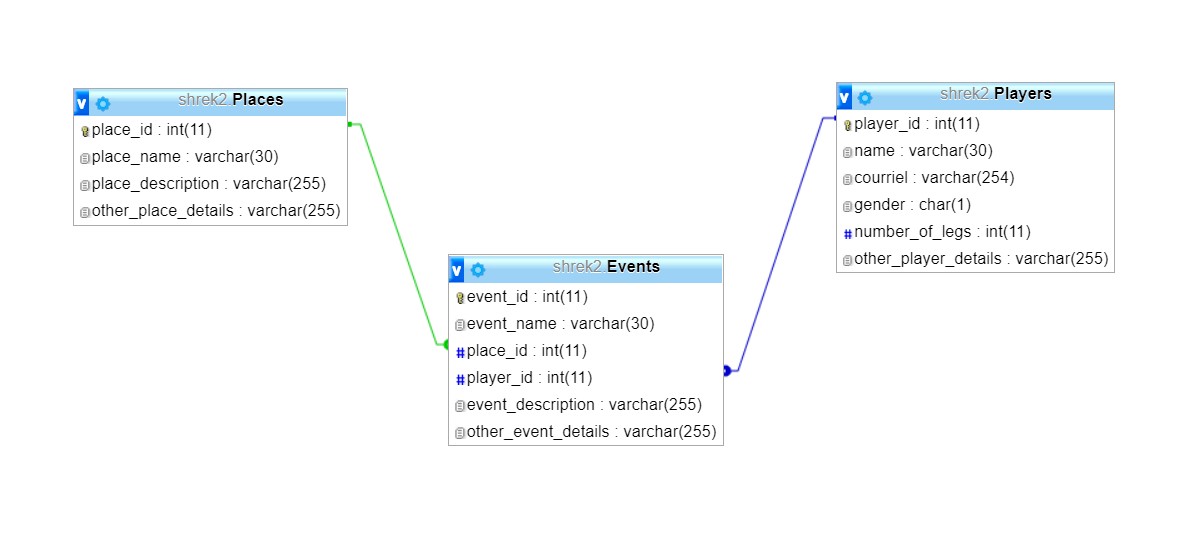
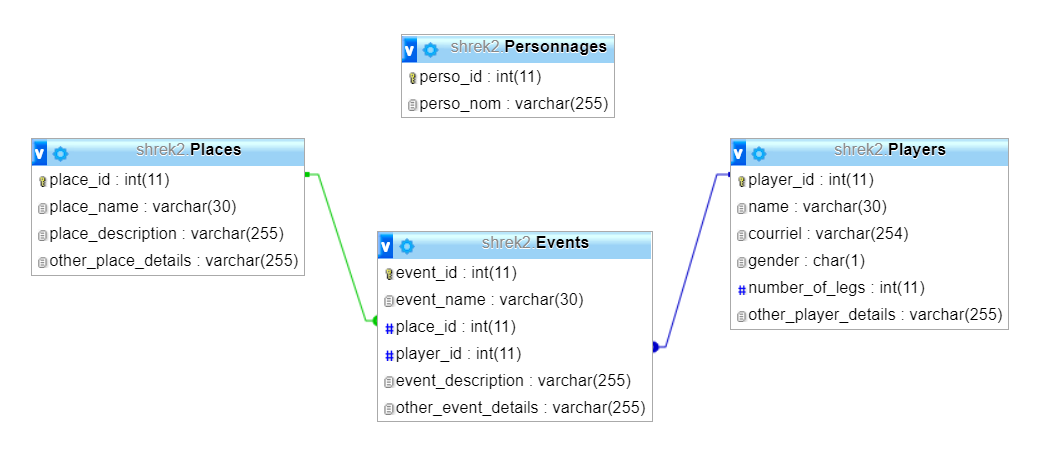
Candidat pour master.

diff --git a/Controleur/modifier.php b/Controleur/modifier.php
@@ -35,7 +35,7 @@ try {
         throw new Exception("Aucun identifiant d'événement");
 } catch (Exception $e) {
     $msgErreur = $e->getMessage();
-    require '..\Vue\vueErreur.php';
+    require '..\Vue\vueErreur.php'; //TODO n'entre pas dans la vue, mais arrive bel et bien à cette ligne??
 }
 
 // Redirection du visiteur vers la page d'accueil

diff --git a/Modele/modele.php b/Modele/modele.php
@@ -99,7 +99,7 @@ function ajouterPlayer($ajout) {
     return $ajouts;
 }
 
-// Recherche les types répondant à l'autocomplete
+// Recherche les persos répondant à l'autocomplete
 function searchPerso($term) {
     $conn = getBdd();
     $stmt = $conn->prepare('SELECT perso_nom FROM Personnages WHERE perso_nom LIKE :term');

diff --git a/Controleur/controleur.php b/Controleur/controleur.php
@@ -45,7 +45,7 @@ function supprimerPersonnage($id) {
     require 'Vue\vueConfirmation.php';
 }
 
-// recherche et retourne les personnage pour l'autocomplete
+// recherche et retourne les persos pour l'autocomplete
 function quelsPersos($term) {
     echo searchPerso($term);
 }
